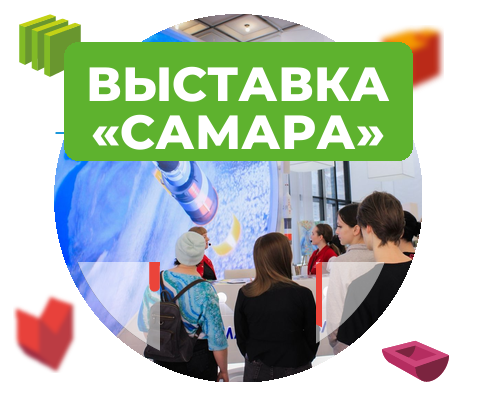
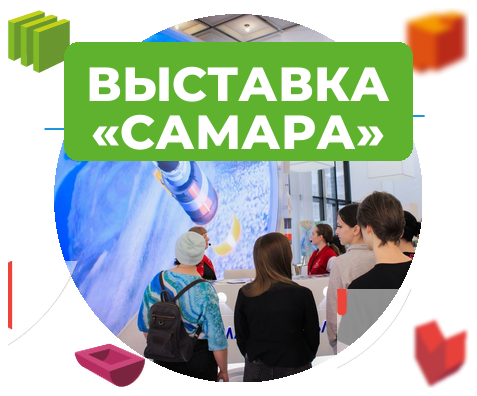
Обложки Самары: разная расстановка кубиков на двух карточках (не одинаковые края)
Каждой обложке — свой набор углов + отражения кубиков, чтобы края не повторялись.

diff --git a/scripts/build-covers.py b/scripts/build-covers.py
@@ -1,29 +1,36 @@
 #!/usr/bin/env python3
-"""Обложки каталога samara-exhibition / samara-vdnh в нативном стиле (477x396):
-круглое фото + 4 кубика HM (спрайты из обложки EATON) + крупная плашка."""
+"""Обложки каталога samara-exhibition / samara-vdnh (477x396) в нативном стиле:
+круглое фото + кубики HM (из EATON) + крупная плашка. У каждой обложки СВОЯ
+расстановка кубиков (углы + отражения), чтобы края не были одинаковыми."""
 from PIL import Image, ImageDraw, ImageFont
-import numpy as np, os
+import os
 W,H=477,396; CX,CY,R=238,198,184
 def font(sz,w='ExtraBold'):
     f=ImageFont.truetype('/tmp/fonts/Montserrat.ttf',sz)
     try: f.set_variation_by_name(w)
     except: pass
     return f
-# извлекаем 4 кубика-спрайта из EATON по их bbox
 E=Image.open('mirror/static/cdn/as6135-3563-4735-a365-643234376439/icons-112.png').convert('RGBA')
-ea=np.array(E)
-CUBES=[]
-for (x0,y0,x1,y1) in [(15,12,160,134),(316,25,444,134),(13,262,160,373),(316,262,450,383)]:
-    spr=E.crop((x0,y0,x1,y1))
-    CUBES.append((spr,x0,y0))
-def make(photo,focus,band,lines,out,sz=46):
+CUBE={'green':E.crop((19,12,160,134)),'orange':E.crop((318,25,444,134)),
+      'red':E.crop((13,262,160,373)),'magenta':E.crop((318,262,452,383))}
+# якоря углов (куда «прижимать» кубик)
+ANCH={'TL':(8,8),'TR':(W-8,8),'BL':(8,H-8),'BR':(W-8,H-8)}
+def place(base,name,corner,flip=False,scale=1.0):
+    spr=CUBE[name]
+    if scale!=1.0: spr=spr.resize((int(spr.width*scale),int(spr.height*scale)),Image.LANCZOS)
+    if flip: spr=spr.transpose(Image.FLIP_LEFT_RIGHT)
+    ax,ay=ANCH[corner]; w,h=spr.size
+    x = ax if 'L' in corner else ax-w
+    y = ay if 'T' in corner else ay-h
+    base.alpha_composite(spr,(x,y))
+def make(photo,focus,band,lines,cubes,out,sz=46):
     base=Image.new('RGBA',(W,H),(0,0,0,0))
     im=Image.open(photo).convert('RGB'); w,h=im.size; side=min(w,h)
     left=int((w-side)*focus); top=(h-side)//2
     ph=im.crop((left,top,left+side,top+side)).resize((2*R,2*R),Image.LANCZOS)
     m=Image.new('L',(2*R,2*R),0); ImageDraw.Draw(m).ellipse([0,0,2*R,2*R],fill=255)
     base.paste(ph,(CX-R,CY-R),m)
-    for spr,x0,y0 in CUBES: base.alpha_composite(spr,(x0,y0))
+    for c in cubes: place(base,*c)
     d=ImageDraw.Draw(base); f=font(sz); lh=int(sz*1.0)
     while max(d.textlength(t,font=f) for t in lines)>W-78 and sz>28:
         sz-=2; f=font(sz); lh=int(sz*1.0)
@@ -34,7 +41,14 @@ def make(photo,focus,band,lines,out,sz=46):
     for t in lines:
         tw=d.textlength(t,font=f); d.text((CX-tw/2,y),t,font=f,fill=(255,255,255)); y+=lh
     os.makedirs(os.path.dirname(out),exist_ok=True); base.save(out,'PNG'); print('saved',out)
+
+# Выставка «Самара» — зелёная плашка, расстановка A
 make('mirror/portfolio/samara-exhibition/photos/Ekran_parus.jpg',0.30,(94,178,46),
-     ['ВЫСТАВКА','«САМАРА»'],'mirror/static/cdn/custom-samara-exhibition/cover-main.png',48)
+     ['ВЫСТАВКА','«САМАРА»'],
+     [('green','TL',False,1.0),('orange','TR',False,1.0),('magenta','BL',False,1.05),('red','BR',True,0.9)],
+     'mirror/static/cdn/custom-samara-exhibition/cover-main.png',48)
+# Стенд Самарской области — красная плашка, расстановка B (другие кубики/углы/флипы)
 make('mirror/portfolio/samara-vdnh/Card_Samara_stend.jpg',0.5,(196,38,46),
-     ['СТЕНД САМАРСКОЙ','ОБЛАСТИ'],'mirror/static/cdn/custom-samara-vdnh/cover-main.png',40)
+     ['СТЕНД САМАРСКОЙ','ОБЛАСТИ'],
+     [('orange','TL',True,1.05),('green','TR',True,0.92),('red','BL',False,1.0),('magenta','BR',True,1.0)],
+     'mirror/static/cdn/custom-samara-vdnh/cover-main.png',40)